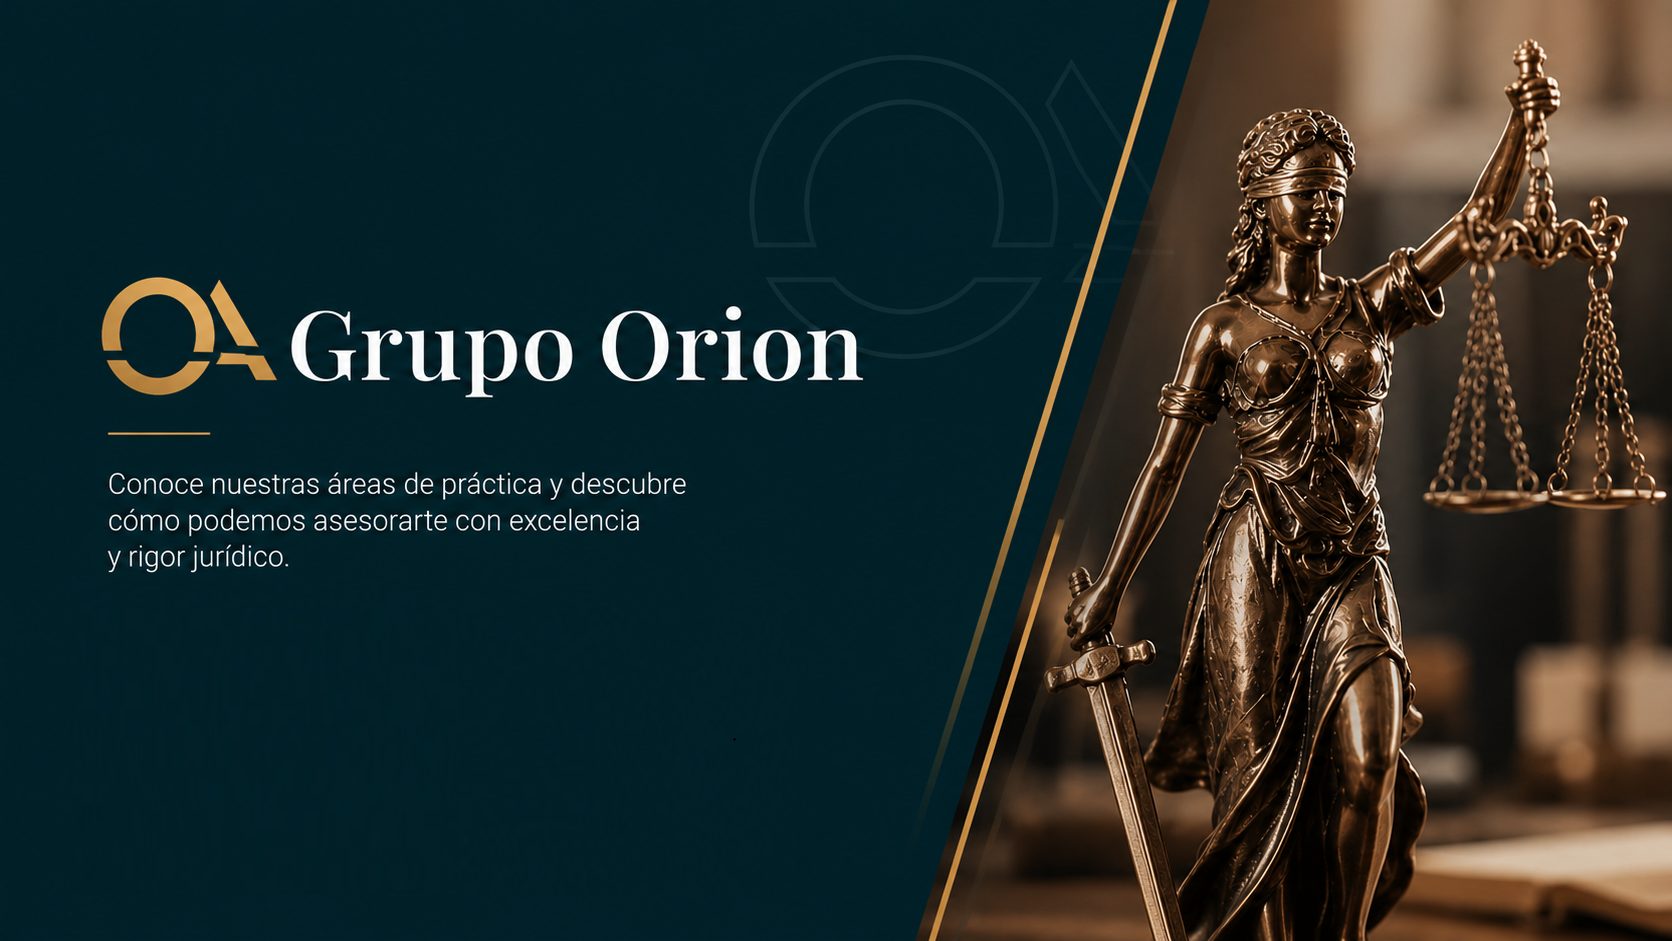
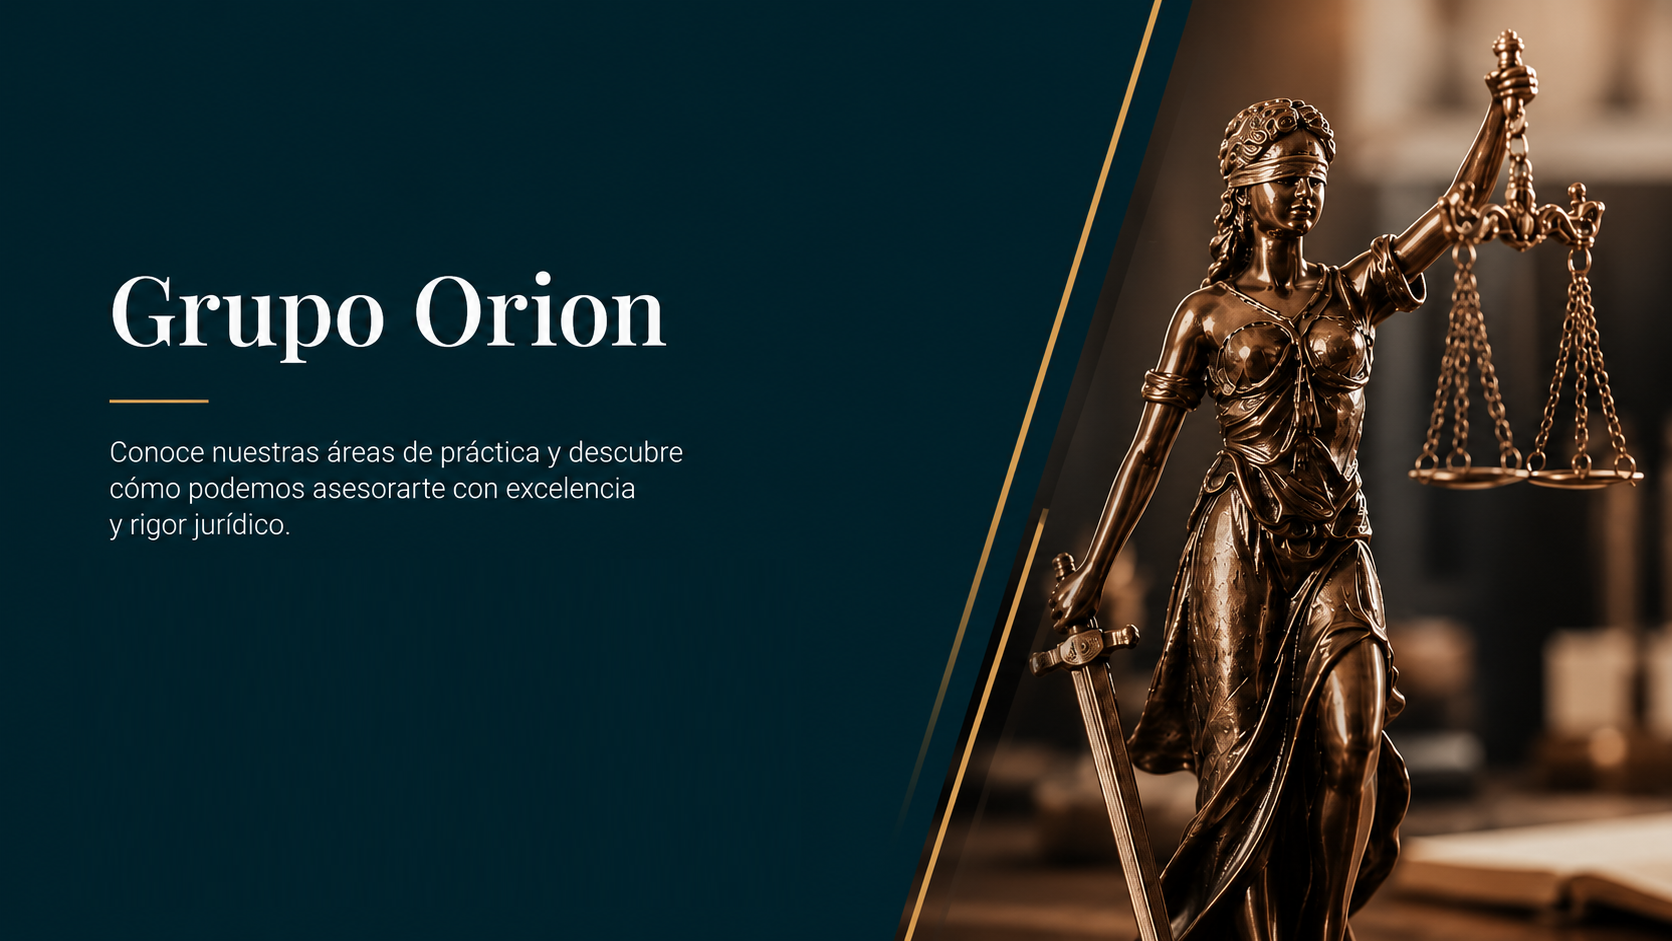
Se agrega información extraída del CV

Changed region(s): [[0.5287, 0.0, 1.0, 1.0], [0.0622, 0.2774, 0.5287, 0.6164]]

diff --git a/index.html b/index.html
@@ -3,12 +3,12 @@
 <head>
   <meta charset="UTF-8" />
   <meta name="viewport" content="width=device-width, initial-scale=1.0" />
-  <title>Grupo Orion – Servicios Jurídicos</title>
+  <title>Grupo Orión – Servicios Jurídicos</title>
 
   <!-- SEO básico -->
-  <meta name="description" content="Grupo Orion – Más de 23 años protegiendo tus intereses. Lic. René Noel Francisco Vázquez. Derecho Civil, Mercantil, Litigio y Familiar en Poza Rica, Veracruz." />
+  <meta name="description" content="Grupo Orión – Más de 23 años protegiendo tus intereses. Lic. René Noel Francisco Vázquez. Derecho Civil, Mercantil, Litigio y Familiar en Poza Rica, Veracruz." />
   <meta name="author" content="Lic. René Noel Francisco Vázquez" />
-  <meta name="keywords" content="abogado Poza Rica, abogado Veracruz, derecho civil Poza Rica, derecho mercantil, litigio, derecho familiar, asesoría jurídica, Grupo Orion, René Vázquez abogado, bufete jurídico Poza Rica, abogado 93390" />
+  <meta name="keywords" content="abogado Poza Rica, abogado Veracruz, derecho civil Poza Rica, derecho mercantil, litigio, derecho familiar, asesoría jurídica, Grupo Orión, René Vázquez abogado, bufete jurídico Poza Rica, abogado 93390" />
   <meta name="robots" content="index, follow, max-snippet:-1, max-image-preview:large, max-video-preview:-1" />
   <link rel="canonical" href="https://arrova931026.github.io/grupo_orion/" />
 
@@ -21,18 +21,18 @@
   <!-- Open Graph (Facebook, WhatsApp, LinkedIn, correo) -->
   <meta property="og:type"        content="website" />
   <meta property="og:url"         content="https://arrova931026.github.io/grupo_orion/" />
-  <meta property="og:title"       content="Grupo Orion – Servicios Jurídicos" />
+  <meta property="og:title"       content="Grupo Orión – Servicios Jurídicos" />
   <meta property="og:description" content="Más de 23 años protegiendo tus intereses con rigor, estrategia y resultados. Consulta al Lic. René Noel Francisco Vázquez." />
   <meta property="og:image"       content="https://arrova931026.github.io/grupo_orion/social.jpg" />
   <meta property="og:image:type"   content="image/jpeg" />
   <meta property="og:image:width"  content="1200" />
   <meta property="og:image:height" content="1600" />
   <meta property="og:locale"      content="es_MX" />
-  <meta property="og:site_name"   content="Grupo Orion" />
+  <meta property="og:site_name"   content="Grupo Orión" />
 
   <!-- Twitter Card -->
   <meta name="twitter:card"        content="summary_large_image" />
-  <meta name="twitter:title"       content="Grupo Orion – Servicios Jurídicos" />
+  <meta name="twitter:title"       content="Grupo Orión – Servicios Jurídicos" />
   <meta name="twitter:description" content="Más de 23 años protegiendo tus intereses con rigor, estrategia y resultados. Consulta al Lic. René Noel Francisco Vázquez." />
   <meta name="twitter:image"       content="https://arrova931026.github.io/grupo_orion/social.jpg" />
   <link rel="preconnect" href="https://fonts.googleapis.com" />
@@ -47,7 +47,7 @@
     <div class="nav-container">
       <a href="#inicio" class="nav-logo">
         <span class="logo-oa">GO</span>
-        <span class="logo-text">Grupo Orion</span>
+        <span class="logo-text">Grupo Orión</span>
       </a>
 
       <button class="hamburger" id="hamburger" aria-label="Abrir menú" aria-expanded="false">
@@ -72,7 +72,7 @@
   <section class="hero" id="inicio">
     <picture>
       <source srcset="indexm.png" media="(max-width: 600px)" />
-      <img src="index.png" alt="Grupo Orion – Rigor, Estrategia, Resultados" class="hero-img" />
+      <img src="index.png" alt="Grupo Orión – Rigor, Estrategia, Resultados" class="hero-img" />
     </picture>
     <div class="hero-overlay">
       <div class="hero-btns">
@@ -88,7 +88,7 @@
       <div class="section-tag">NUESTRO EQUIPO</div>
       <h2 class="section-title">¿Quiénes Somos?</h2>
       <p class="section-subtitle">
-        En Grupo Orion combinamos rigor jurídico, experiencia y compromiso absoluto
+        En Grupo Orión combinamos rigor jurídico, experiencia y compromiso absoluto
         para proteger los intereses de nuestros clientes con excelencia en cada caso.
       </p>
 
@@ -109,25 +109,32 @@
               <div class="info-content">
                 <span class="info-label">Formación</span>
                 <span class="info-value">Licenciatura en Derecho</span>
-                <span class="info-detail">Universidad del Golfo de México</span>
+                <span class="info-detail">Universidad Veracruzana</span>
               </div>
             </div>
 
             <div class="info-card">
               <div class="info-icon">⚖️</div>
               <div class="info-content">
-                <span class="info-label">Especialidad</span>
-                <span class="info-value">Derecho Civil · Mercantil</span>
-                <span class="info-detail">Contratos, litigios y asesoría corporativa</span>
+                <span class="info-label">Especialidad y Diplomados</span>
+                <span class="info-value">Penal · Civil · Mercantil · Constitucional  y Amparo</span>
+                <span class="info-detail">INAPOD</span>
               </div>
             </div>
 
-            <div class="info-card">
+            <div class="info-card info-card--wide">
               <div class="info-icon">📅</div>
               <div class="info-content">
                 <span class="info-label">Trayectoria</span>
                 <span class="info-value">+23 Años de Experiencia</span>
                 <span class="info-detail">Litigante activo ante tribunales federales y locales</span>
+                <ul class="info-credentials">
+                  <li><strong>2007</strong> — Diplomado en Ciencias Penales e Investigación Criminalística · <em>Universidad Veracruzana</em></li>
+                  <li><strong>2010–2011</strong> — Diplomado en Juicios Orales · <em>Universidad Veracruzana</em></li>
+                  <li><strong>2010–2011</strong> — Diplomado en Análisis Político Estratégico · <em>CIDE – Centro de Investigación y Docencia Económicas</em></li>
+                  <li><strong>2014–2016</strong> — Maestría en Derecho Notarial · <em>Colegio de Veracruz, A.C.</em></li>
+                  <li><strong>A la fecha</strong> — Acreditado en el Sistema Penal Acusatorio · <em>Universidad de Xalapa</em></li>
+                </ul>
               </div>
             </div>
 <!--
@@ -170,7 +177,7 @@
       <!-- Stats bar -->
       <div class="stats-bar">
         <div class="stat">
-          <span class="stat-num">15<sup>+</sup></span>
+          <span class="stat-num">23<sup>+</sup></span>
           <span class="stat-lbl">Años de experiencia</span>
         </div>
         <div class="stat-divider"></div>
@@ -259,6 +266,7 @@
               <p><button class="phone-trigger" id="phone-trigger-ubi" type="button">[phone redacted]</button></p>
             </div>
           </div>
+          <!--
           <div class="ubi-item">
             <div class="ubi-icon">✉️</div>
             <div>
@@ -266,6 +274,7 @@
               <p>[email redacted]</p>
             </div>
           </div>
+          -->
           <a href="https://maps.google.com" target="_blank" rel="noopener noreferrer" class="btn-primary">
             Cómo llegar &nbsp;›
           </a>
@@ -273,7 +282,7 @@
 
         <div class="ubicacion-map">
           <iframe
-            title="Ubicación Grupo Orion"
+            title="Ubicación Grupo Orión"
             src="https://maps.google.com/maps?q=20.5308123,-97.4604922&hl=es&z=16&output=embed"
             width="100%"
             height="400"
@@ -292,7 +301,7 @@
     <div class="footer-inner">
       <div class="footer-logo">
         <span class="logo-oa">GO</span>
-        <span class="logo-text">Grupo Orion</span>
+        <span class="logo-text">Grupo Orión</span>
       </div>
       <nav class="footer-nav">
         <a href="#inicio">Inicio</a>
@@ -302,7 +311,7 @@
         <a href="blog.html">Blog</a>
       </nav>
       <p class="footer-legal">
-        &copy; 2026 Grupo Orion. Todos los derechos reservados. &nbsp;|&nbsp; Lic. René Noel Francisco Vázquez
+        &copy; 2026 Grupo Orión. Todos los derechos reservados. &nbsp;|&nbsp; Lic. René Noel Francisco Vázquez
       </p>
     </div>
   </footer>
@@ -337,8 +346,8 @@
   {
     "@context": "https://schema.org",
     "@type": "LegalService",
-    "name": "Grupo Orion – Servicios Jurídicos",
-    "alternateName": "Grupo Orion",
+    "name": "Grupo Orión – Servicios Jurídicos",
+    "alternateName": "Grupo Orión",
     "url": "https://arrova931026.github.io/grupo_orion/",
     "logo": "https://arrova931026.github.io/grupo_orion/index.png",
     "image": "https://arrova931026.github.io/grupo_orion/index.png",
@@ -347,7 +356,7 @@
       "@type": "Person",
       "name": "René Noel Francisco Vázquez",
       "jobTitle": "Licenciado en Derecho",
-      "alumniOf": "Universidad del Golfo de México"
+      "alumniOf": "Universidad Veracruzana"
     },
     "address": {
       "@type": "PostalAddress",

diff --git a/styles.css b/styles.css
@@ -496,6 +496,36 @@ ul { list-style: none; }
   line-height: 1.4;
 }
 
+/* Wide card spanning full grid */
+.info-card--wide {
+  grid-column: 1 / -1;
+}
+.info-credentials {
+  margin: 10px 0 0 0;
+  padding: 0;
+  list-style: none;
+  display: flex;
+  flex-direction: column;
+  gap: 6px;
+}
+.info-credentials li {
+  font-size: .78rem;
+  color: var(--text-mid);
+  line-height: 1.5;
+  padding-left: 14px;
+  position: relative;
+}
+.info-credentials li::before {
+  content: '›';
+  position: absolute;
+  left: 0;
+  color: var(--gold);
+  font-weight: 700;
+}
+.info-credentials li strong {
+  color: var(--teal-dark);
+}
+
 .profile-quote {
   border-left: 3px solid var(--gold);
   padding: 12px 20px;